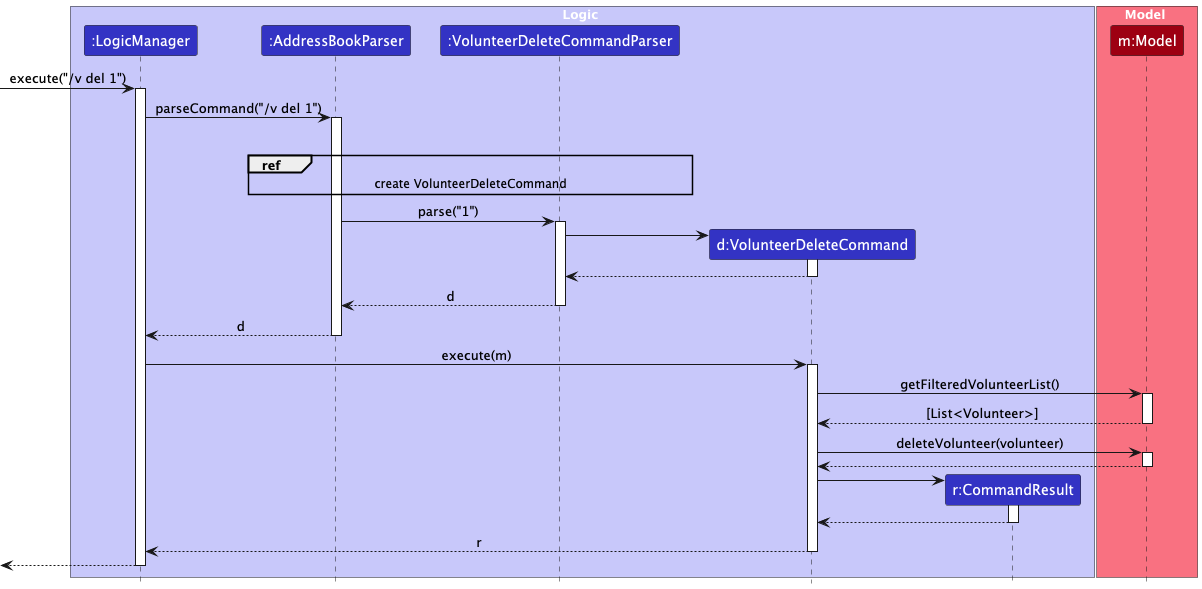
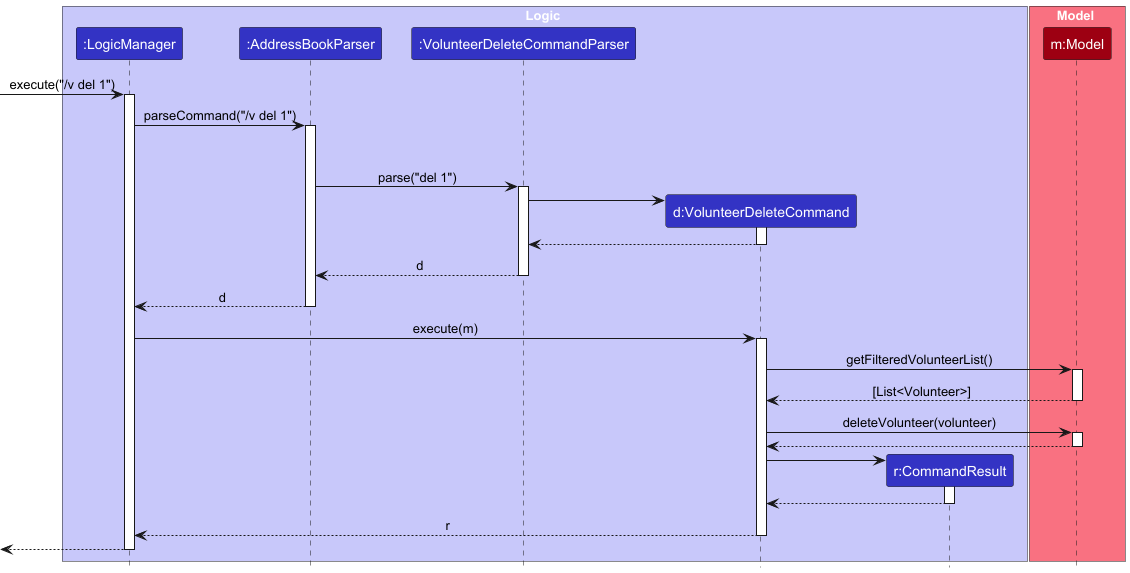
Fix DG issues

diff --git a/docs/DeveloperGuide.md b/docs/DeveloperGuide.md
@@ -53,7 +53,7 @@ The bulk of the app's work is done by the following four components:
 
 **How the architecture components interact with each other**
 
-The *Sequence Diagram* below shows how the components interact with each other for the scenario where the user issues the command `/e delete 1`.
+The *Sequence Diagram* below shows how the components interact with each other for the scenario where the user issues the command `/e del 1`.
 
 <img src="images/ArchitectureSequenceDiagram.png" width="544"  alt=""/>
 
@@ -99,11 +99,10 @@ Here's a (partial) class diagram of the `Logic` component:
 
 <img src="images/LogicClassDiagram.png" width="534" alt=""/>
 
-The sequence diagram below illustrates the interactions within the `Logic` component, taking `execute("delete 1")` API call as an example.
+The sequence diagram below illustrates the interactions within the `Logic` component, taking `execute("del 1")` API call as an example.
 
 ![Interactions Inside the Logic Component for the `delete 1` Command](images/DeleteVolunteerSequenceDiagram.png)
-![Supporting sd Frame](images/DeleteVolunteerSequenceDiagramSdFrame.png)
-<div markdown="span" class="alert alert-info">:information_source: **Note:** The lifeline for `DeleteCommandParser` should end at the destroy marker (X) but due to a limitation of PlantUML, the lifeline continues till the end of diagram.
+<div markdown="span" class="alert alert-info">:information_source: **Note:** The lifeline for `VolunteerDeleteCommandParser` should end at the destroy marker (X) but due to a limitation of PlantUML, the lifeline continues till the end of diagram.
 </div>
 
 How the `Logic` component works:
@@ -122,7 +121,7 @@ Here are the other classes in `Logic` (omitted from the class diagram above) tha
 <img src="images/ParserClasses.png" width="668"/>
 
 How the parsing works:
-* When called upon to parse a user command, the `AddressBookParser` class creates an `XYZCommandParser` (`XYZ` is a placeholder for the specific command name e.g., `EventCommandParser`) which uses the other classes shown above such as the ParserUtil to parse the user command and create a `XYZCommand` object (e.g., `EventNewCommand`) which the `AddressBookParser` returns back as a `Command` object.
+* When called upon to parse a user command, the `AddressBookParser` class creates an `XYZCommandParser` (`XYZ` is a placeholder for the specific command name e.g., `EventCommandParser`) which uses the other classes shown above such as the EventParserUtil to parse the user command and create a `XYZCommand` object (e.g., `EventNewCommand`) which the `AddressBookParser` returns back as a `Command` object.
 * All `XYZCommandParser` classes (e.g., `EventNewCommandParser`, `EventDeleteCommandParser`, ...) inherit from the `Parser` interface so that they can be treated similarly where possible e.g, during testing.
 
 <div style="page-break-after: always;"></div>
